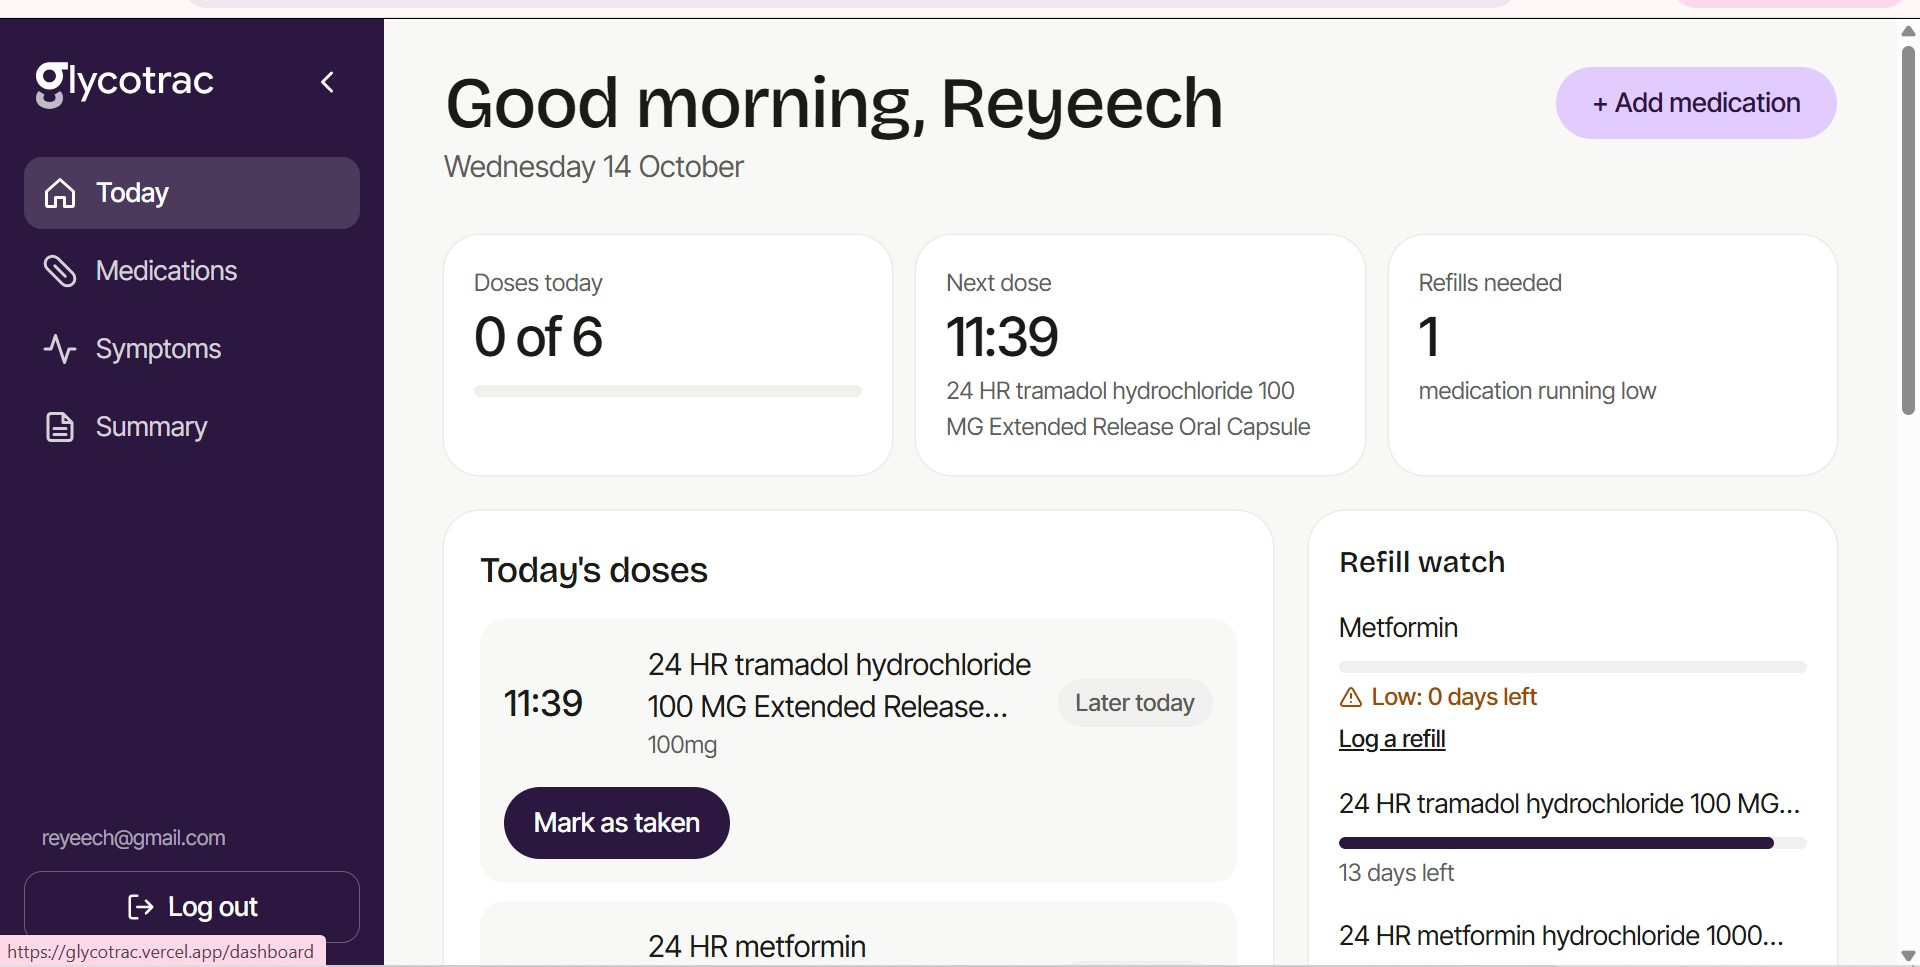
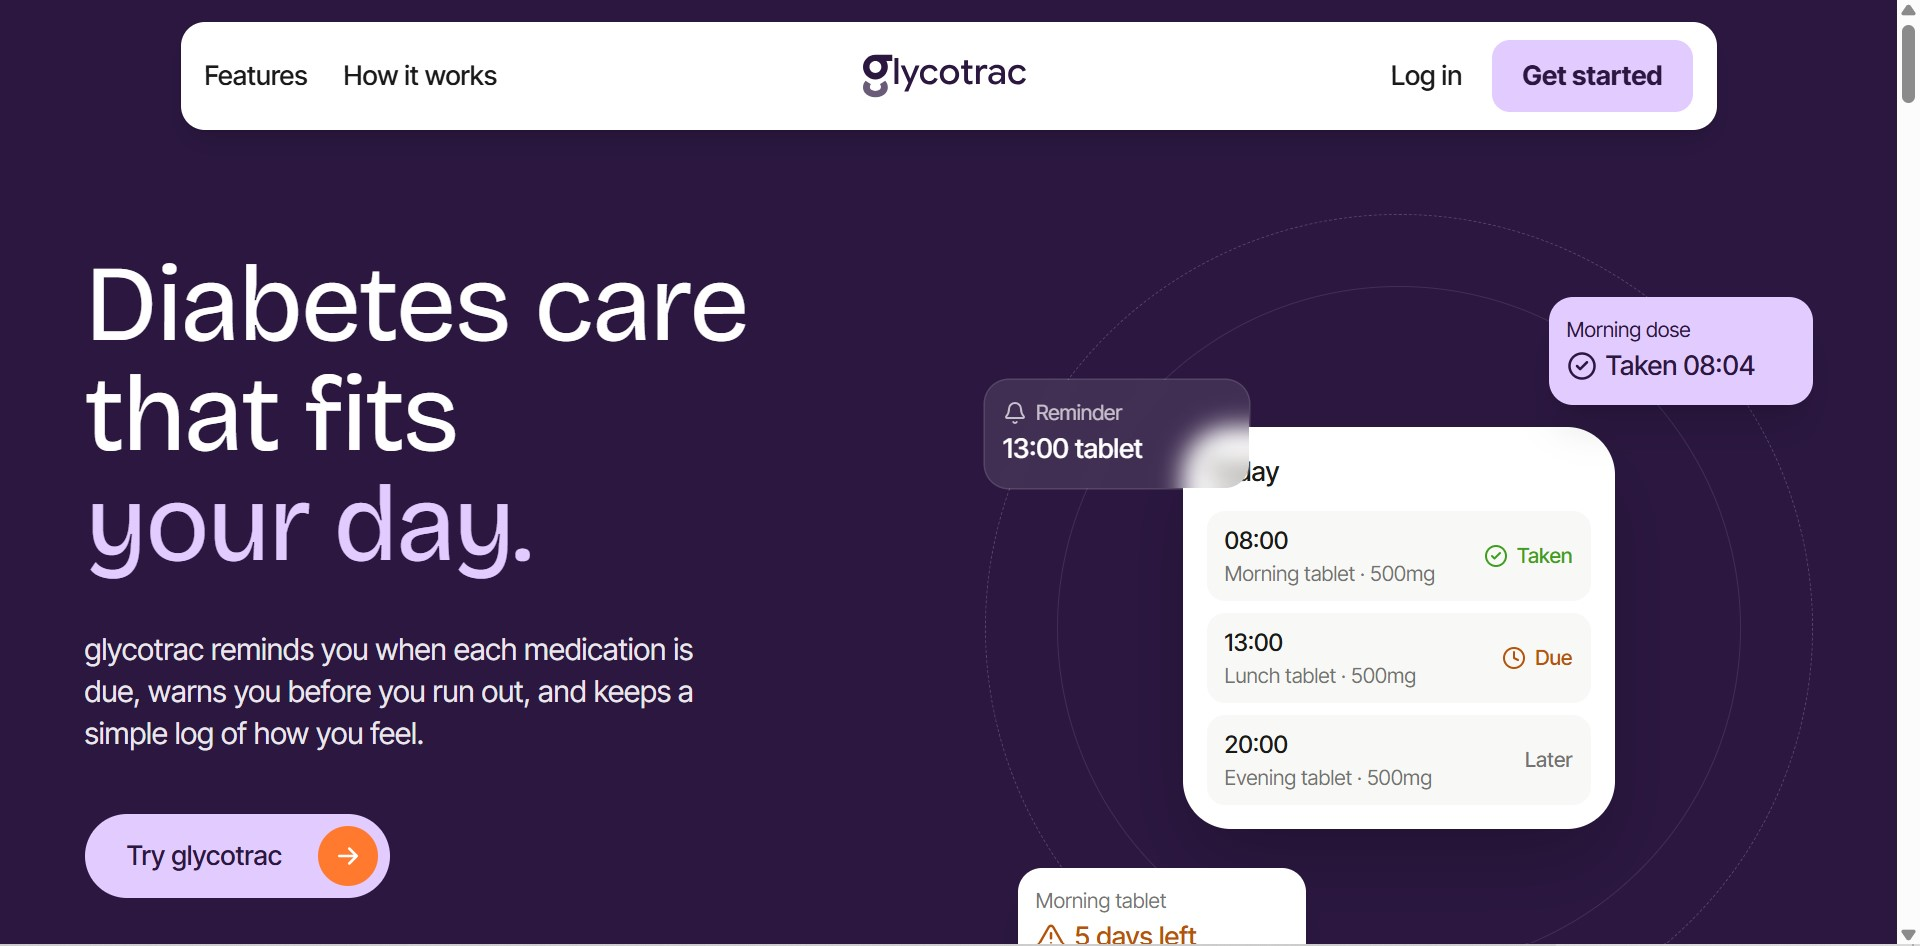
update glycotrac

diff --git a/src/sections/Projects.jsx b/src/sections/Projects.jsx
@@ -12,6 +12,14 @@ const project = [
     github: "https://github.com/deepracerchichi/glycotrac",
   },
   {
+    title: "Conduit",
+    description: "Medication reminders, refill alerts and symptom tracking for people living with diabetes. Built with Next.js, TypeScript, Supabase and GSAP.",
+    image: "/projects/conduit.jpg",
+    tags: ["Next.js", "TypeScript", "Supabase", "GSAP"],
+    link: "https://github.com/deepracerchichi/connuit",
+    github: "https://github.com/deepracerchichi/connuit",
+  },
+  {
     title: "nestFind",
     description: "A full-stack real estate listing platform with real-time buyer-seller messaging, JWT authentication, and moderator-reviewed listing verification",
     image: "/projects/nestFind.jpg",
